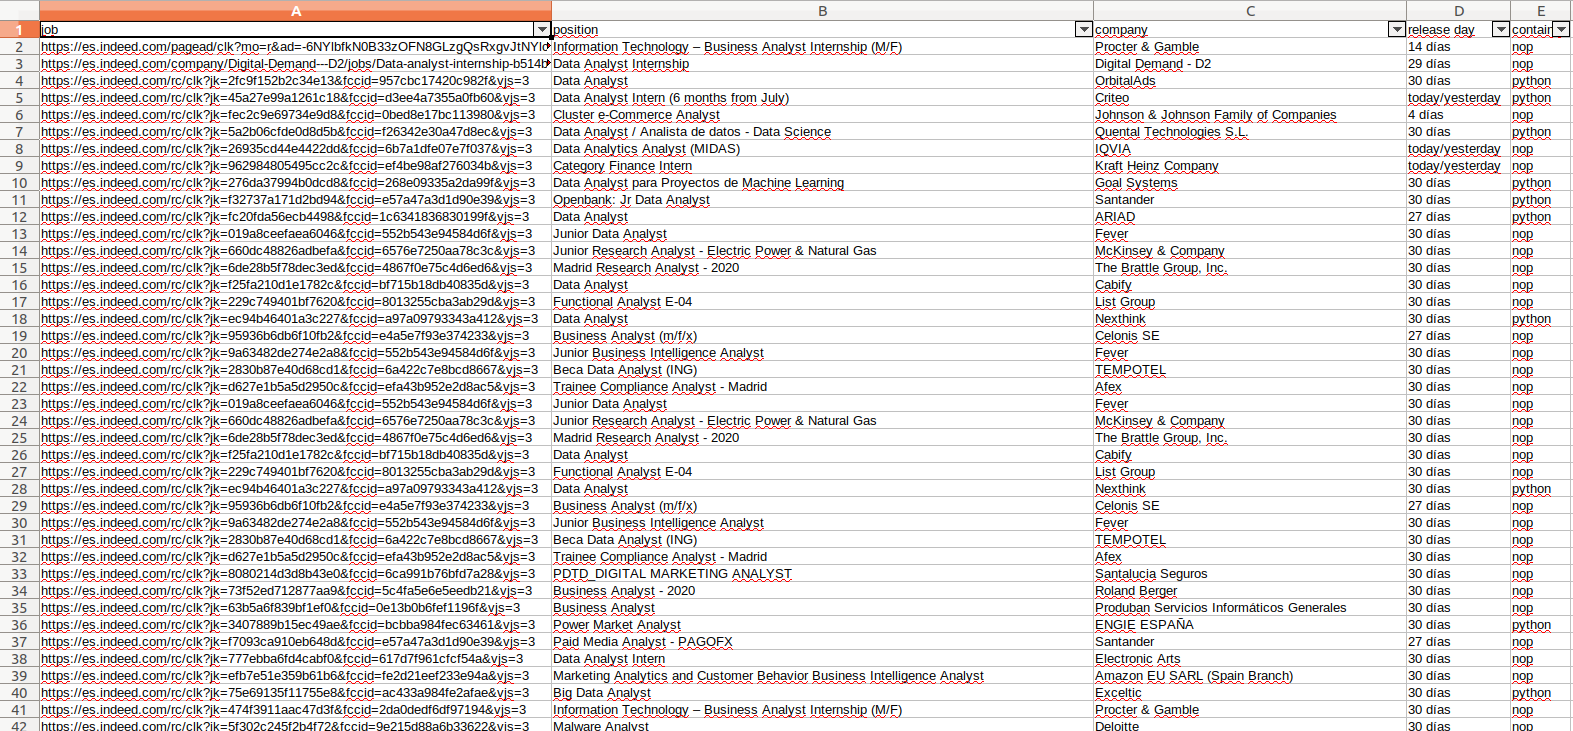
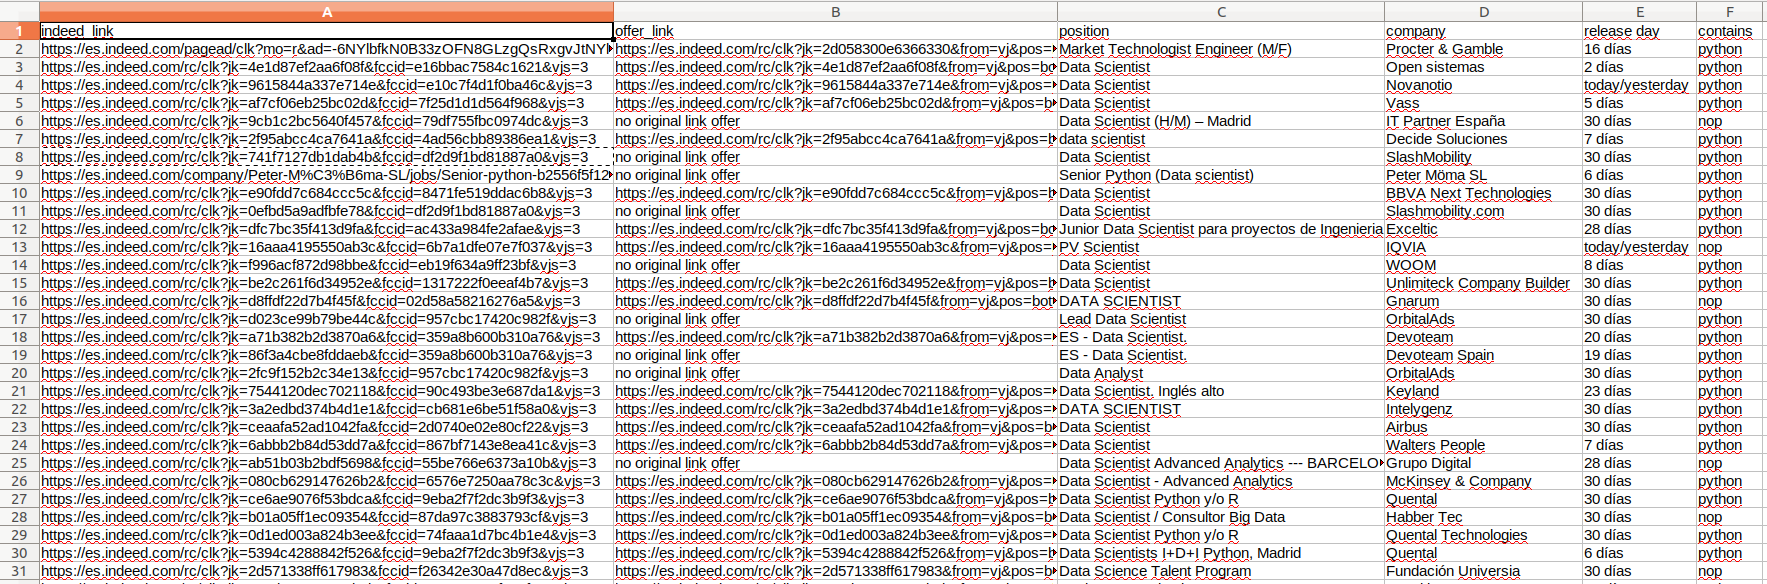
scrape

diff --git a/indeed.py b/indeed.py
@@ -25,7 +25,8 @@ wait = WebDriverWait(driver, 5)
 search_bar = driver.find_element_by_name("q")
 search_bar.clear()
 #type your job, also the location is taken --> ex: data analyst dublin
-keyword = "data scientist madrid"
+keyword = "data madrid"
+print("looking for",keyword)
 search_bar.send_keys(keyword)
 search_bar.send_keys(Keys.RETURN)
 
@@ -45,12 +46,19 @@ while True:
         print("links scraped")
         break
 
+offer_links = []
 positions = []
 companies = []
 days = []
 conditions = []
 for l in links:
     driver.get(l)
+    #get original link offer
+    try:
+        offer_link = driver.find_element_by_xpath("//div[contains(@class, 'icl-u-xs-hide icl-u-lg-block icl-u-lg-textCenter')]/a").get_attribute("href")
+        offer_links.append(offer_link)
+    except NoSuchElementException:
+        offer_links.append("no original link offer")
     #find job position
     try:
         position = driver.find_element_by_xpath("//h3[contains(@class, 'jobsearch-JobInfoHeader-title')]").text
@@ -84,13 +92,13 @@ for l in links:
         conditions.append("nop")
 
 #saving in csv
-with open('data-scientist.csv', 'w', newline='') as csvfile:
-    fieldnames = ["job", "position", "company", "release day", "contains"]
+with open("".join([keyword.replace(" ","-"), ".csv"]), 'w', newline='') as csvfile:
+    fieldnames = ["indeed_link", "offer_link", "position", "company", "release day", "contains"]
     writer = csv.DictWriter(csvfile, fieldnames=fieldnames)
 
     writer.writeheader()
-    for link, position, company, release, condition in zip(links, positions, companies, days, conditions):
-        writer.writerow({"job": link, "position":position, "company":company, "release day":release, "contains": condition})
-print("csv file available")
+    for link, offer_link, position, company, release, condition in zip(links, offer_links, positions, companies, days, conditions):
+        writer.writerow({"indeed_link":link, "offer_link":offer_link, "position":position, "company":company, "release day":release, "contains":condition})
+print("".join([keyword.replace(" ","-"), ".csv file available"]))
 
     
